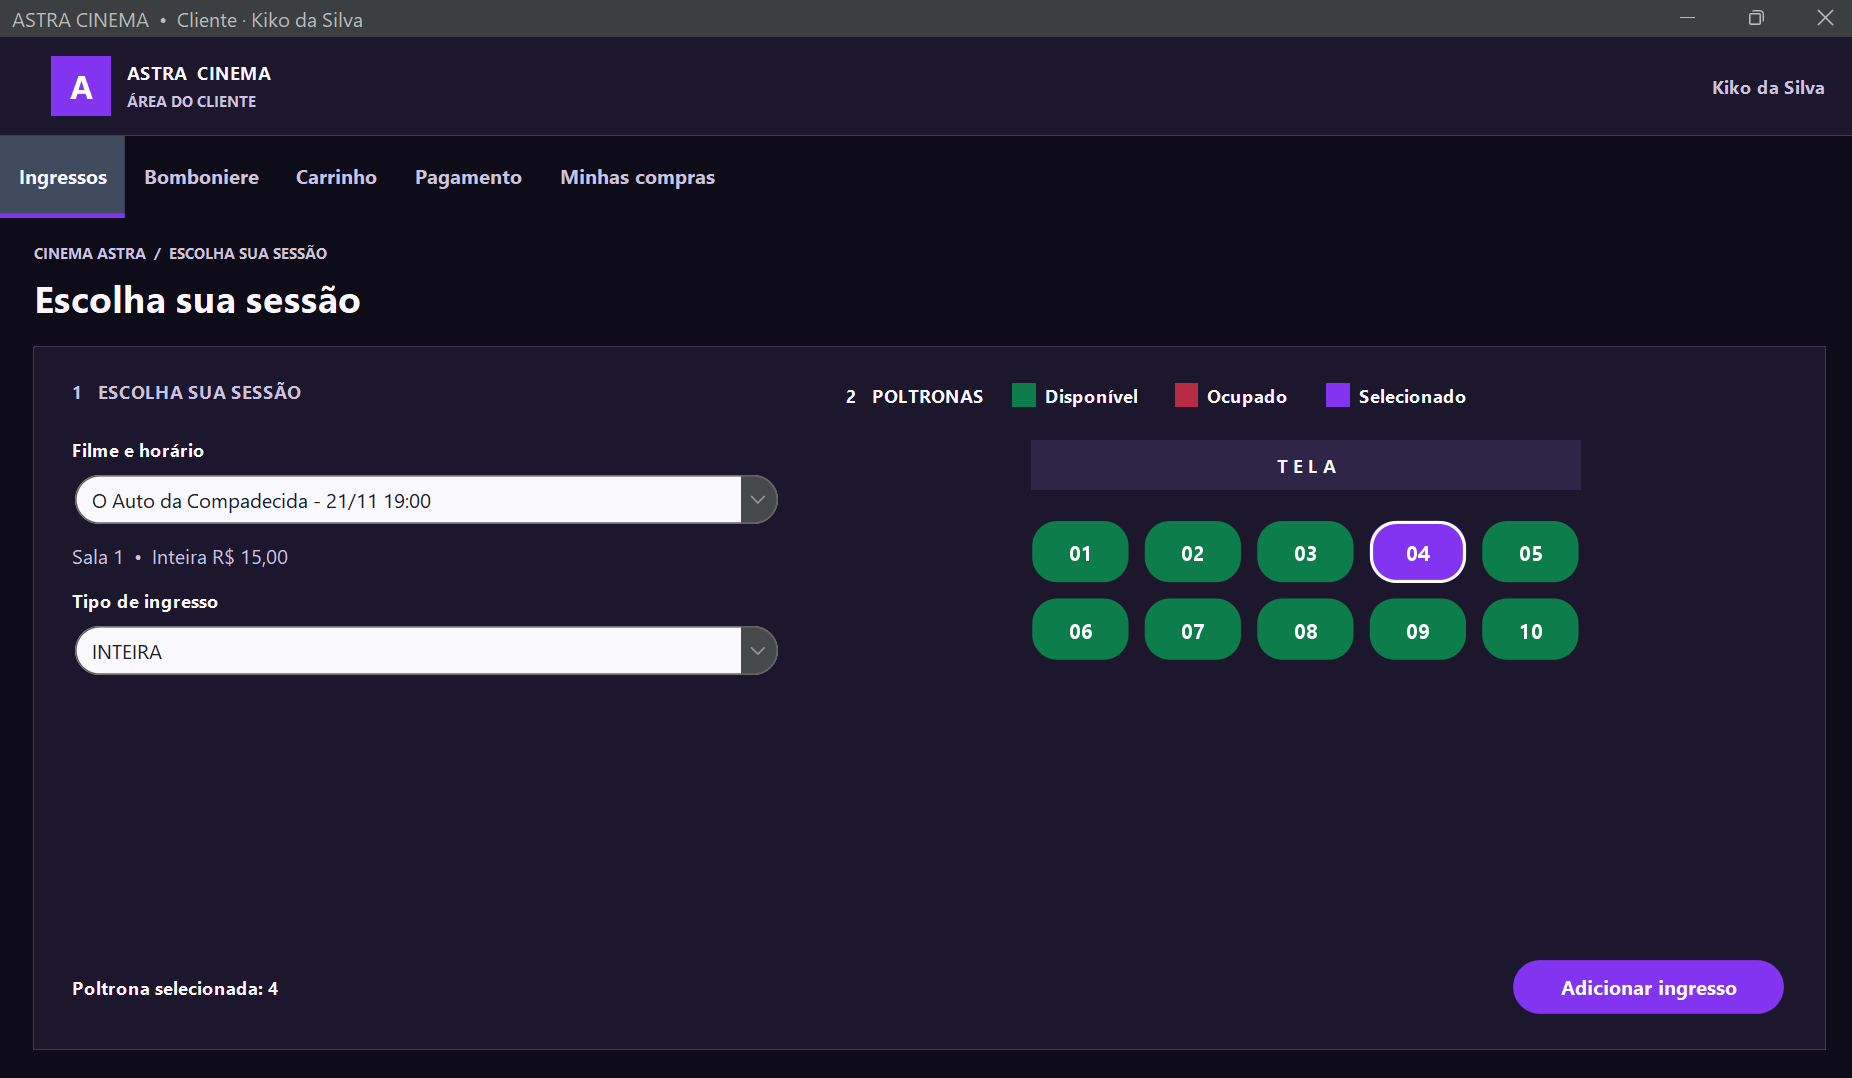
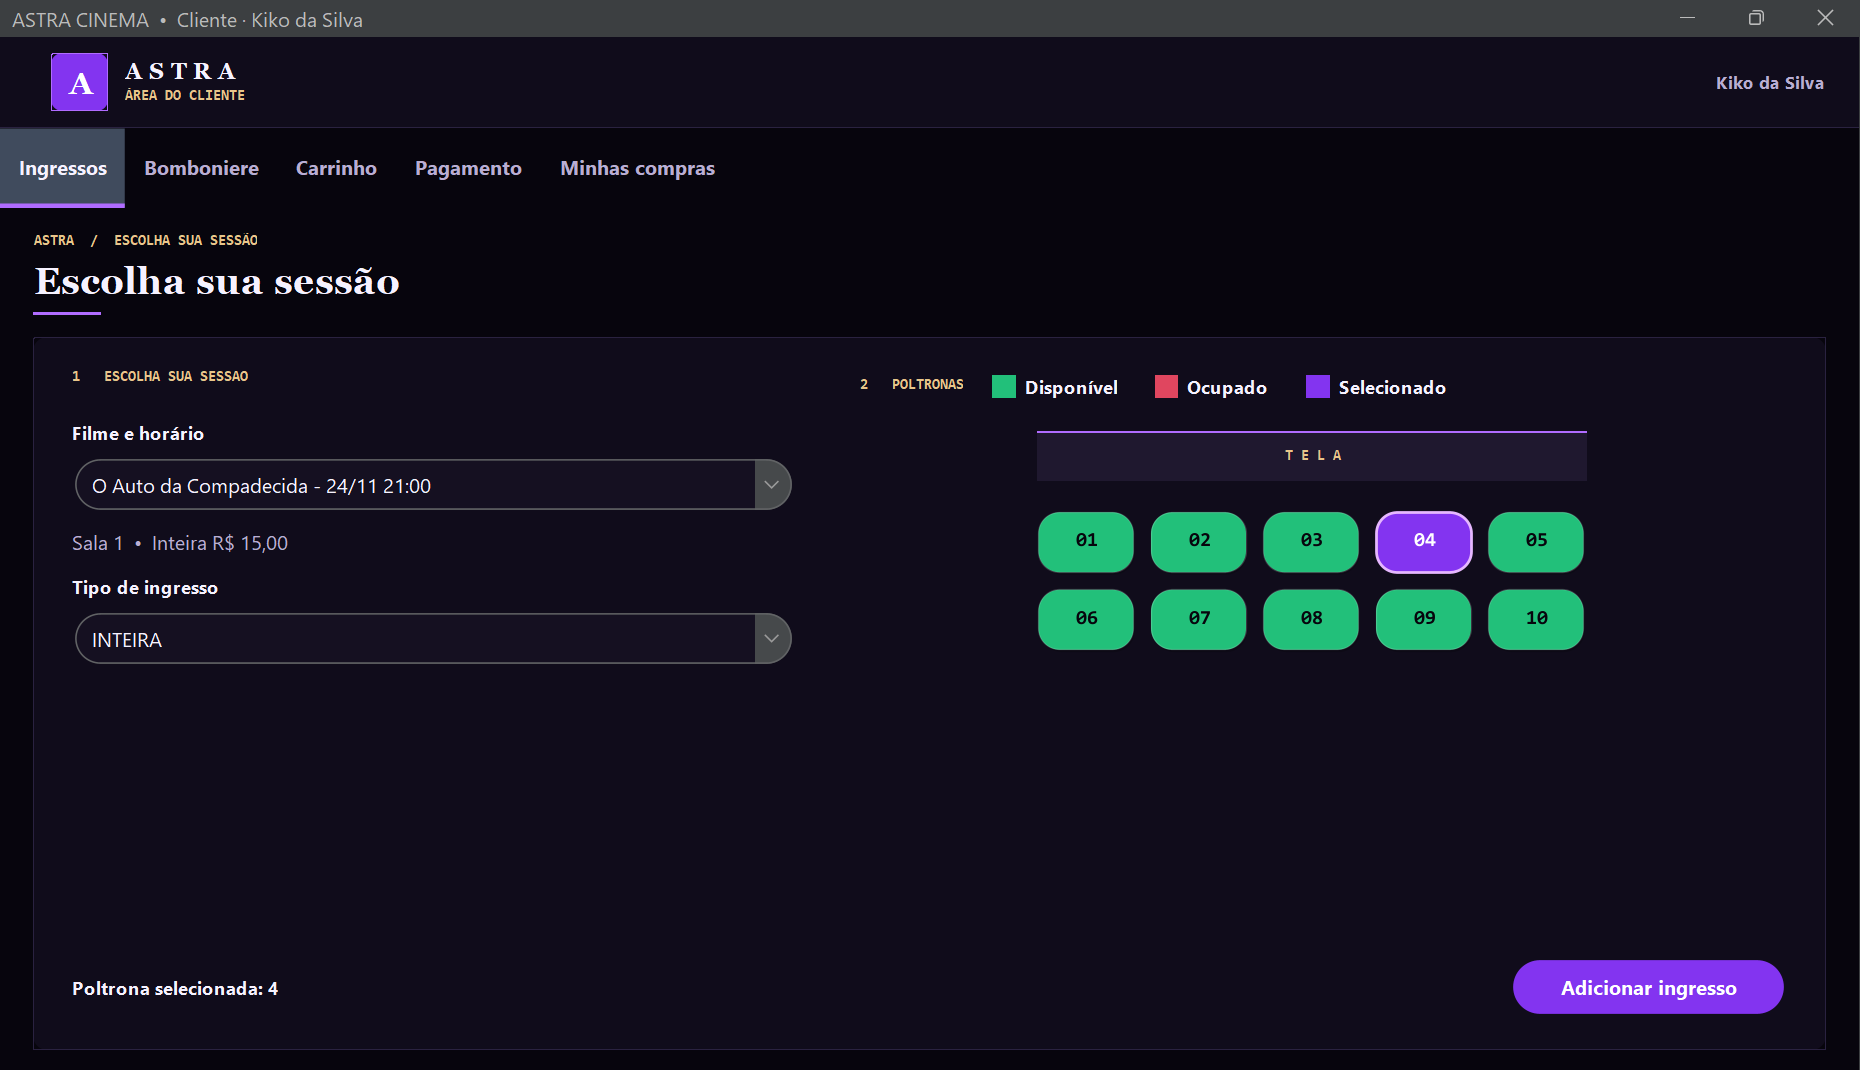
Atualiza prints da interface gráfica e a seção de demonstração do README

diff --git a/README.md b/README.md
@@ -250,18 +250,36 @@ Os diagramas UML estão na pasta [`diagramas/`](diagramas/).
 
 Capturas de tela do sistema em funcionamento (pasta [`docs/prints/`](docs/prints/)):
 
-| Tela inicial | Área do Administrador |
+**Início e criação de conta**
+
+| Tela inicial | Criar conta |
 |---|---|
-| ![Tela inicial](docs/prints/01-tela-inicial.png) | ![Cadastro de filme](docs/prints/02-admin-cadastro.png) |
+| ![Tela inicial](docs/prints/01-tela-inicial.png) | ![Criar conta](docs/prints/02-cadastro-conta.png) |
 
-| Compra de ingresso | Pagamento |
+**Área do Cliente**
+
+| Escolha de ingresso e poltrona | Bomboniere |
 |---|---|
-| ![Compra de ingresso](docs/prints/03-cliente-ingresso.png) | ![Pagamento](docs/prints/04-cliente-pagamento.png) |
+| ![Compra de ingresso](docs/prints/03-cliente-ingresso.png) | ![Bomboniere](docs/prints/04-cliente-bomboniere.png) |
 
-| Erro tratado (assento ocupado) |
-|---|
-| ![Assento ocupado](docs/prints/05-erro-assento-ocupado.png) |
+| Carrinho | Pagamento |
+|---|---|
+| ![Carrinho](docs/prints/05-cliente-carrinho.png) | ![Pagamento](docs/prints/06-cliente-pagamento.png) |
 
-| Cadastro de sessão com data |
+| Minhas compras | Erro tratado (assento ocupado) |
+|---|---|
+| ![Minhas compras](docs/prints/07-cliente-minhas-compras.png) | ![Assento ocupado](docs/prints/08-erro-assento-ocupado.png) |
+
+**Área do Administrador**
+
+| Filmes | Janela de edição de filme |
+|---|---|
+| ![Filmes](docs/prints/09-admin-filmes.png) | ![Edição de filme](docs/prints/10-admin-edicao-filme.png) |
+
+| Produtos | Sessões |
+|---|---|
+| ![Produtos](docs/prints/11-admin-produtos.png) | ![Sessões](docs/prints/12-admin-sessoes.png) |
+
+| Pedidos |
 |---|
-| ![Cadastro de sessão](docs/prints/06-admin-sessao.png) |
+| ![Pedidos](docs/prints/13-admin-pedidos.png) |
